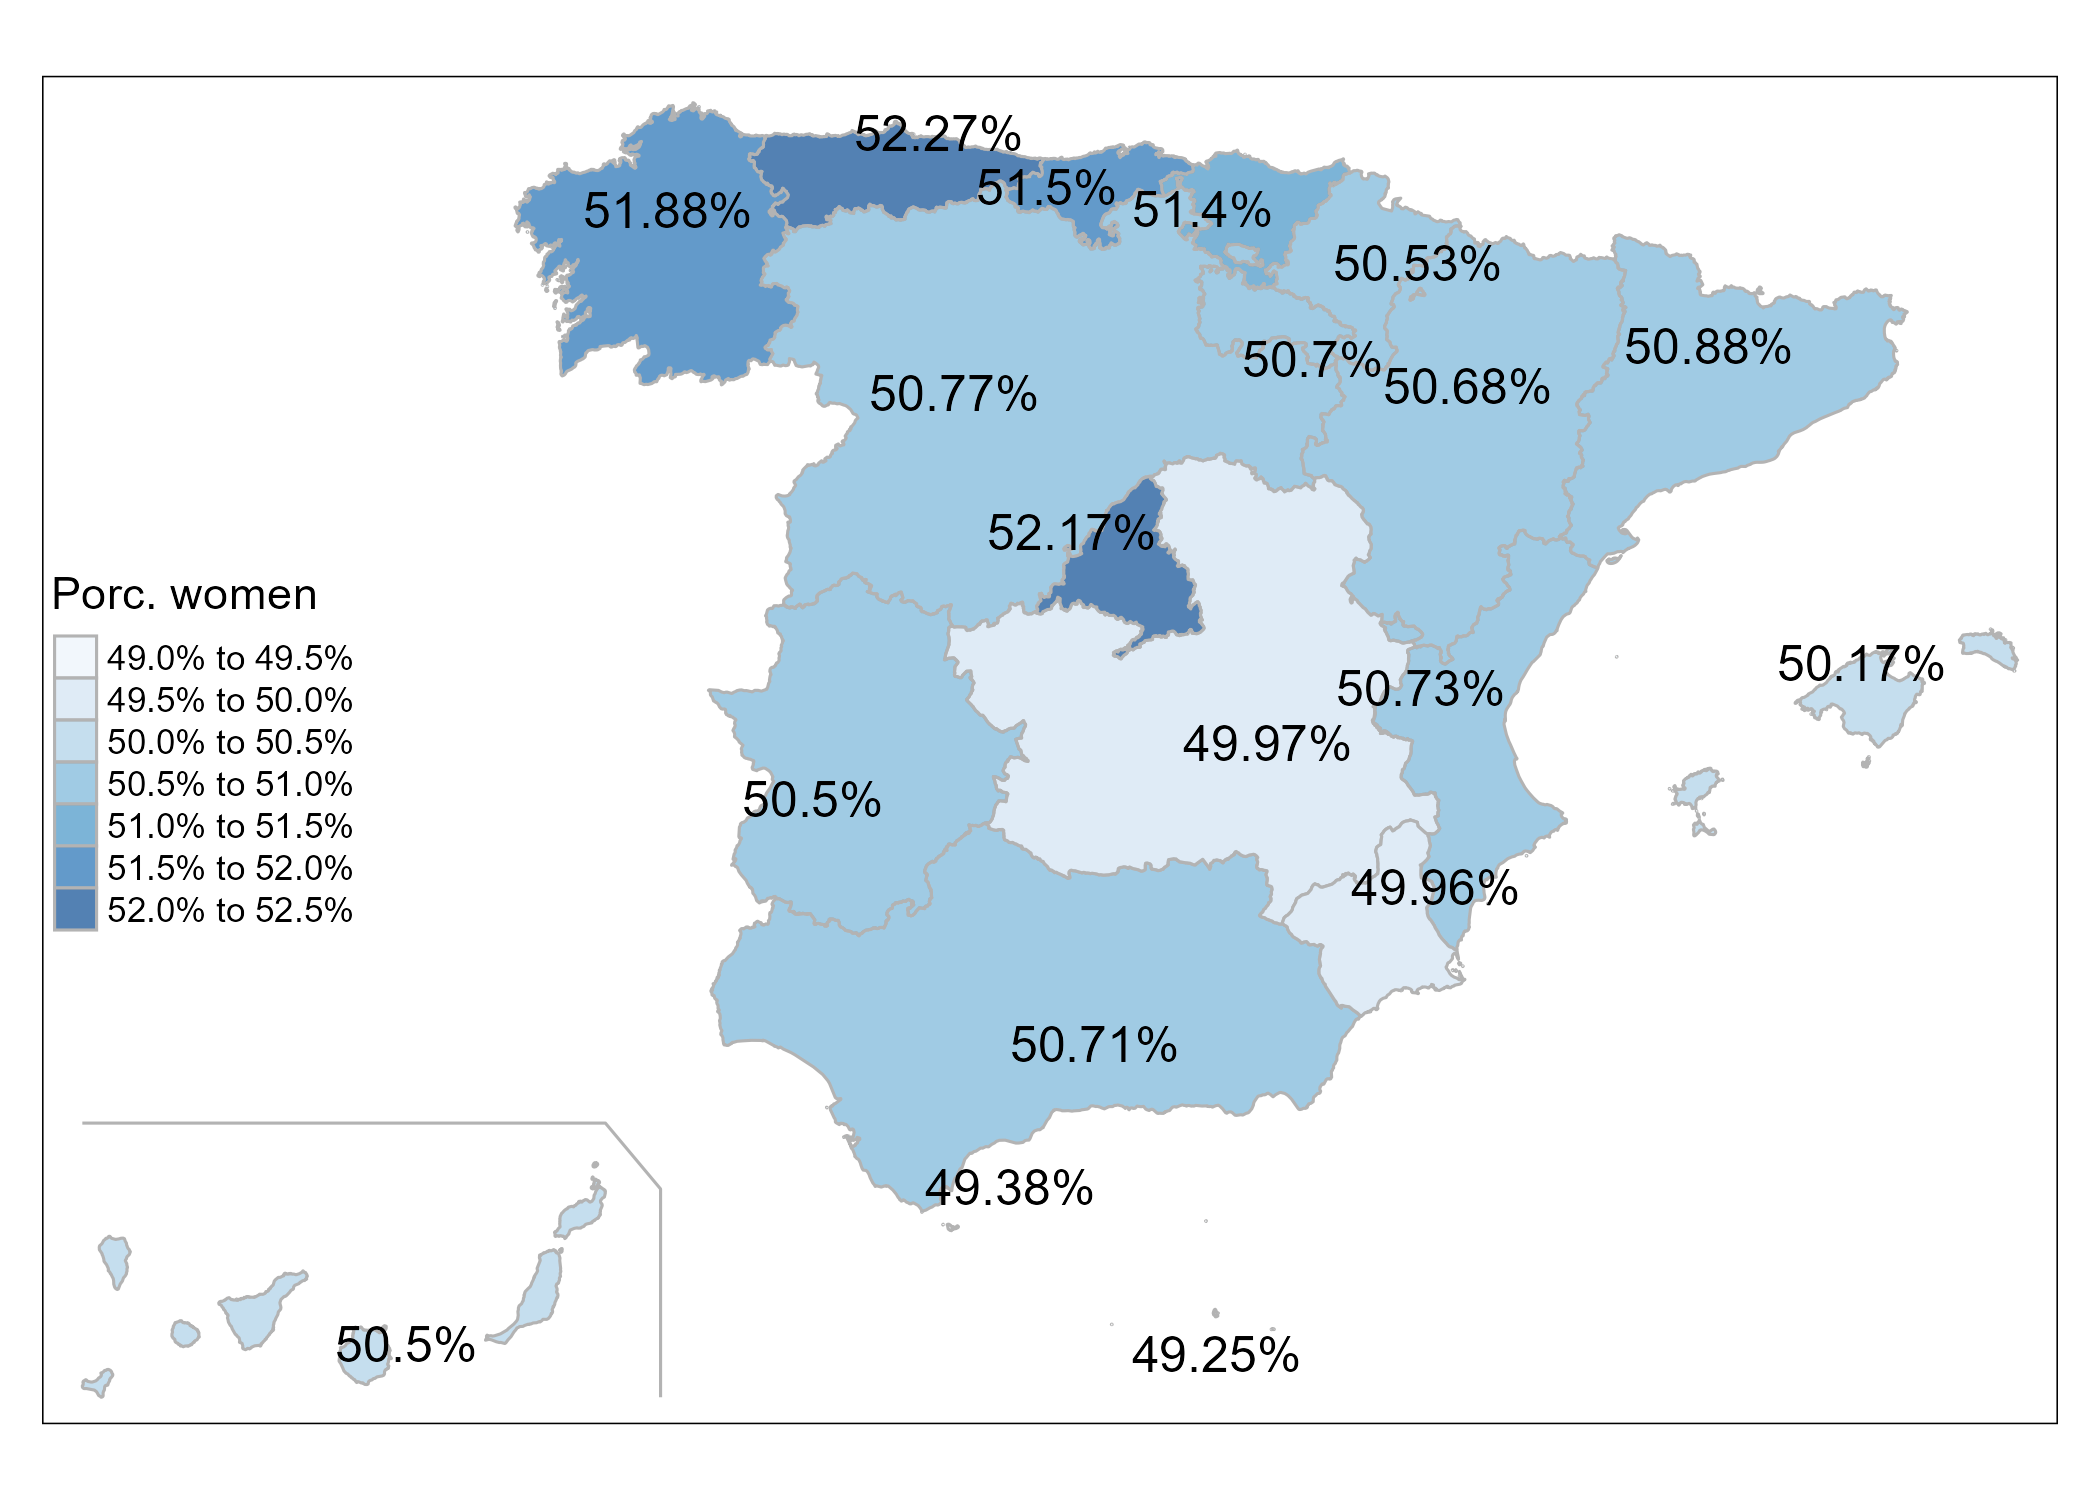
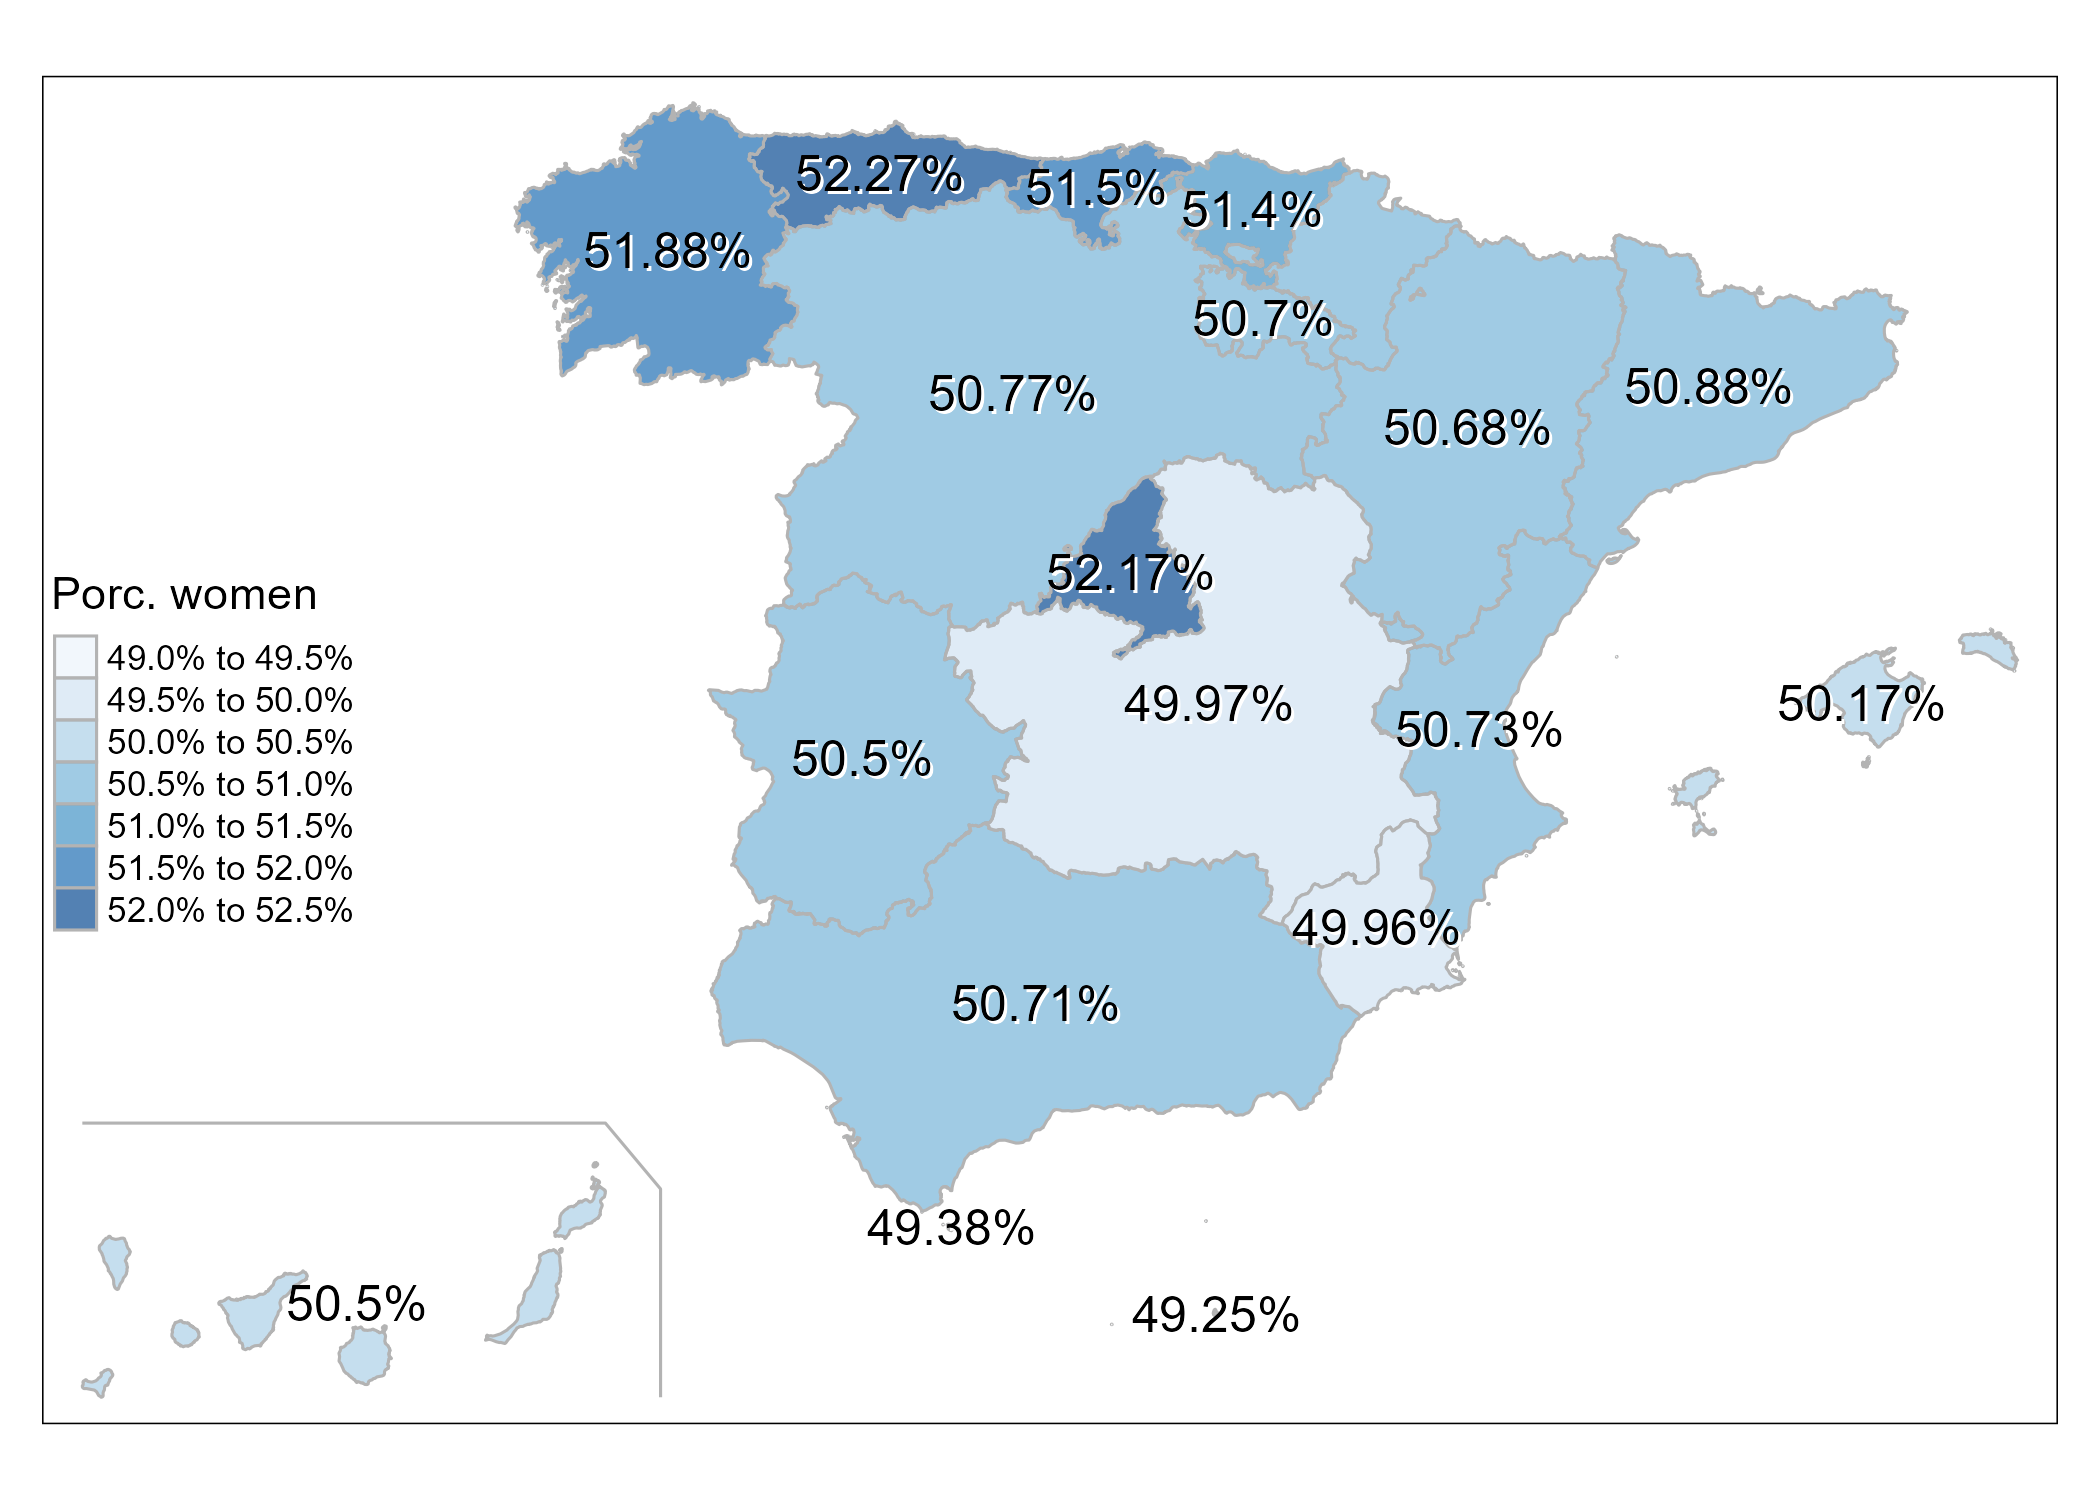
Update README

diff --git a/README.md b/README.md
@@ -4,18 +4,14 @@
 <!-- badges: start -->
 
 [![rOS-badge](https://ropenspain.github.io/rostemplate/reference/figures/ropenspain-badge.svg)](https://ropenspain.es/)
-[![CRAN
-status](https://www.r-pkg.org/badges/version/mapSpain)](https://CRAN.R-project.org/package=mapSpain)
-[![CRAN
-results](https://cranchecks.info/badges/worst/mapSpain)](https://cran.r-project.org/web/checks/check_results_mapSpain.html)
+[![CRAN-status](https://www.r-pkg.org/badges/version/mapSpain)](https://CRAN.R-project.org/package=mapSpain)
+[![CRAN-results](https://cranchecks.info/badges/worst/mapSpain)](https://cran.r-project.org/web/checks/check_results_mapSpain.html)
 [![Downloads](https://cranlogs.r-pkg.org/badges/mapSpain)](https://CRAN.R-project.org/package=mapSpain)
 [![r-universe](https://ropenspain.r-universe.dev/badges/mapSpain)](https://ropenspain.r-universe.dev/)
 [![R-CMD-check](https://github.com/rOpenSpain/mapSpain/workflows/R-CMD-check/badge.svg)](https://github.com/rOpenSpain/mapSpain/actions?query=workflow%3AR-CMD-check)
 [![codecov](https://codecov.io/gh/rOpenSpain/mapSpain/branch/master/graph/badge.svg?token=6L01BKLL85)](https://codecov.io/gh/rOpenSpain/mapSpain)
 [![DOI](https://img.shields.io/badge/DOI-10.5281/zenodo.4318024-blue)](https://doi.org/10.5281/zenodo.4318024)
-[![Project Status: Active – The project has reached a stable, usable
-state and is being actively
-developed.](https://www.repostatus.org/badges/latest/active.svg)](https://www.repostatus.org/#active)
+[![Project-Status:Active](https://www.repostatus.org/badges/latest/active.svg)](https://www.repostatus.org/#active)
 
 <!-- badges: end -->
 
@@ -33,22 +29,15 @@ Full site with examples and vignettes on
 
 ## Installation
 
-Install `mapSpain` from
+Install **mapSpain** from
 [**CRAN**](https://CRAN.R-project.org/package=mapSpain):
 
 ``` r
 install.packages("mapSpain")
 ```
 
-You can install the developing version of `mapSpain` with:
-
-``` r
-library(remotes)
-install_github("rOpenSpain/mapSpain")
-```
-
-Alternatively, you can install the developing version of `mapSpain`
-using the [r-universe](https://ropenspain.r-universe.dev/ui#builds):
+You can install the developing version of **mapSpain** using the
+[r-universe](https://ropenspain.r-universe.dev/ui#builds):
 
 ``` r
 # Enable this universe
@@ -60,9 +49,17 @@ options(repos = c(
 install.packages("mapSpain")
 ```
 
+Alternatively, you can install the developing version of **mapSpain**
+with:
+
+``` r
+library(remotes)
+install_github("rOpenSpain/mapSpain")
+```
+
 ## Usage
 
-This script highlights some features of `mapSpain`:
+This script highlights some features of **mapSpain** :
 
 ``` r
 library(mapSpain)
@@ -108,7 +105,7 @@ tm_shape(CCAA_sf) +
     )
   ) +
   tm_shape(CCAA_sf, point.per = "feature") +
-  tm_text("porc_women_lab", auto.placement = TRUE) +
+  tm_text("porc_women_lab", remove.overlap = TRUE, shadow = TRUE) +
   tm_shape(Can) +
   tm_lines(col = "grey70") +
   tm_layout(legend.position = c("LEFT", "center"))
@@ -116,35 +113,33 @@ tm_shape(CCAA_sf) +
 
 <img src="https://raw.githubusercontent.com/ropenspain/mapSpain/master/img/README-static-1.png" width="100%" />
 
-You can combine `POLYGONS` with static tiles
+You can combine `sf` objects with static tiles
 
 ``` r
-library(mapSpain)
-library(sf)
-
+# Get census
 census <- mapSpain::pobmun19
 census$porc_women <- census$women / census$pob19
 
-census$municode <- paste0(census$cpro, census$cmun)
+# Get shapes
+shape <- esp_get_munic_siane(region = "Segovia", epsg = 3857)
+provs <- esp_get_prov_siane(epsg = 3857)
 
-shape <- esp_get_munic(region = "Teruel")
-provs <- esp_get_prov()
+shape_pop <- merge(shape,
+  census,
+  by = c("cpro", "cmun"),
+  all.x = TRUE
+)
 
-shape_pop <-
-  merge(shape, census, by.x = "LAU_CODE", by.y = "municode")
-
-# Get tiles
-
-shape_pop <- st_transform(shape_pop, 3857)
-provs <- st_transform(provs, 3857)
 
 tile <-
   esp_getTiles(shape_pop,
     type = "IGNBase.Todo",
-    zoom = 9 # Increase to get more quality
+    zoom = 10,
+    bbox_expand = 0.1
   )
 
 # Plot
+
 
 library(tmap)
 
@@ -152,26 +147,32 @@ tm_shape(tile, raster.downsample = FALSE) +
   tm_rgb() +
   tm_shape(shape_pop) +
   tm_fill("porc_women",
-    palette = "-inferno",
+    palette = "RdYlBu",
     title = "",
+    n = 8,
     alpha = 0.6,
+    showNA = FALSE,
     legend.format = list(
       fun = function(x) {
         sprintf("%1.0f%%", 100 * x)
       },
-      text.to.columns = TRUE
+      text.separator = "-"
     )
   ) +
   tm_shape(provs) +
-  tm_borders() +
+  tm_credits("Source: INE",
+    fontface = "bold",
+    position = c("left", "bottom")
+  ) +
+  tm_borders(alpha = 0.5) +
   tm_layout(
-    main.title = "Share of women in Teruel by town (2019)",
+    frame = FALSE,
+    main.title = "Share of women in Segovia by town (2019)",
     main.title.fontface = "bold",
-    main.title.size = 1.2,
-    legend.text.size = 1,
+    main.title.size = 0.8,
+    legend.position = c("right", "bottom"),
     legend.bg.color = "white",
-    legend.frame = TRUE,
-    legend.position = c("right", "bottom")
+    legend.bg.alpha = 0.7
   )
 ```
 
@@ -180,8 +181,8 @@ tm_shape(tile, raster.downsample = FALSE) +
 ## mapSpain and giscoR
 
 If you need to plot Spain along with another countries, consider using
-[`giscoR`](https://dieghernan.github.io/giscoR/) package, that is
-installed as a dependency when you installed `mapSpain`. A basic
+[**giscoR**](https://dieghernan.github.io/giscoR/) package, that is
+installed as a dependency when you installed **mapSpain**. A basic
 example:
 
 ``` r
@@ -191,15 +192,21 @@ library(giscoR)
 
 res <- "03"
 
-all_countries <- gisco_get_countries(resolution = res)
-eu_countries <- gisco_get_countries(resolution = res, region = "EU")
-ccaa <- esp_get_ccaa(moveCAN = FALSE, resolution = res)
+# Same crs
+target_crs <- 3035
 
-# Project to same CRS
-
-all_countries <- st_transform(all_countries, 3035)
-eu_countries <- st_transform(eu_countries, 3035)
-ccaa <- st_transform(ccaa, 3035)
+all_countries <- gisco_get_countries(
+  resolution = res,
+  epsg = target_crs
+)
+eu_countries <- gisco_get_countries(
+  resolution = res, region = "EU",
+  epsg = target_crs
+)
+ccaa <- esp_get_ccaa(
+  moveCAN = FALSE, resolution = res,
+  epsg = target_crs
+)
 
 # Plot
 library(tmap)
@@ -210,7 +217,7 @@ tm_shape(all_countries, bbox = c(23, 14, 67, 54) * 10e4) +
   tm_shape(eu_countries) +
   tm_polygons("#FDFBEA", border.col = "#656565") +
   tm_shape(ccaa) +
-  tm_polygons("#C12838", border.col = "grey80", border.alpha = 0.5)
+  tm_polygons("#C12838", border.col = "grey80", lwd = 0.1)
 ```
 
 <img src="https://raw.githubusercontent.com/ropenspain/mapSpain/master/img/README-giscoR-1.png" width="100%" />
@@ -218,31 +225,29 @@ tm_shape(all_countries, bbox = c(23, 14, 67, 54) * 10e4) +
 ## A note on caching
 
 Some data sets and tiles may have a size larger than 50MB. You can use
-`mapSpain` to create your own local repository at a given local
+**mapSpain** to create your own local repository at a given local
 directory passing the following option:
 
 ``` r
-options(mapSpain_cache_dir = "./path/to/location")
+esp_set_cache_dir("./path/to/location")
 ```
 
-When this option is set, `mapSpain` would look for the cached file and
+When this option is set, **mapSpain** would look for the cached file and
 it will load it, speeding up the process.
 
 ## Plotting `sf` objects
 
 Some packages recommended for visualization are:
 
--   [`tmap`](https://mtennekes.github.io/tmap/)
--   [`mapsf`](https://riatelab.github.io/mapsf/)
--   [`ggplot2`](https://github.com/tidyverse/ggplot2) +
-    [`ggspatial`](https://github.com/paleolimbot/ggspatial)
--   [`leaflet`](https://rstudio.github.io/leaflet/)
+-   [**tmap**](https://mtennekes.github.io/tmap/)
+-   [**mapsf**](https://riatelab.github.io/mapsf/)
+-   [**ggplot2**](https://github.com/tidyverse/ggplot2) +
+    [**ggspatial**](https://github.com/paleolimbot/ggspatial)
+-   [**leaflet**](https://rstudio.github.io/leaflet/)
 
 ## Citation
 
-## Citation
-
-Please use the following when citing `mapSpain`:
+Please use the following when citing **mapSpain**:
 
 ``` r
 citation("mapSpain")
